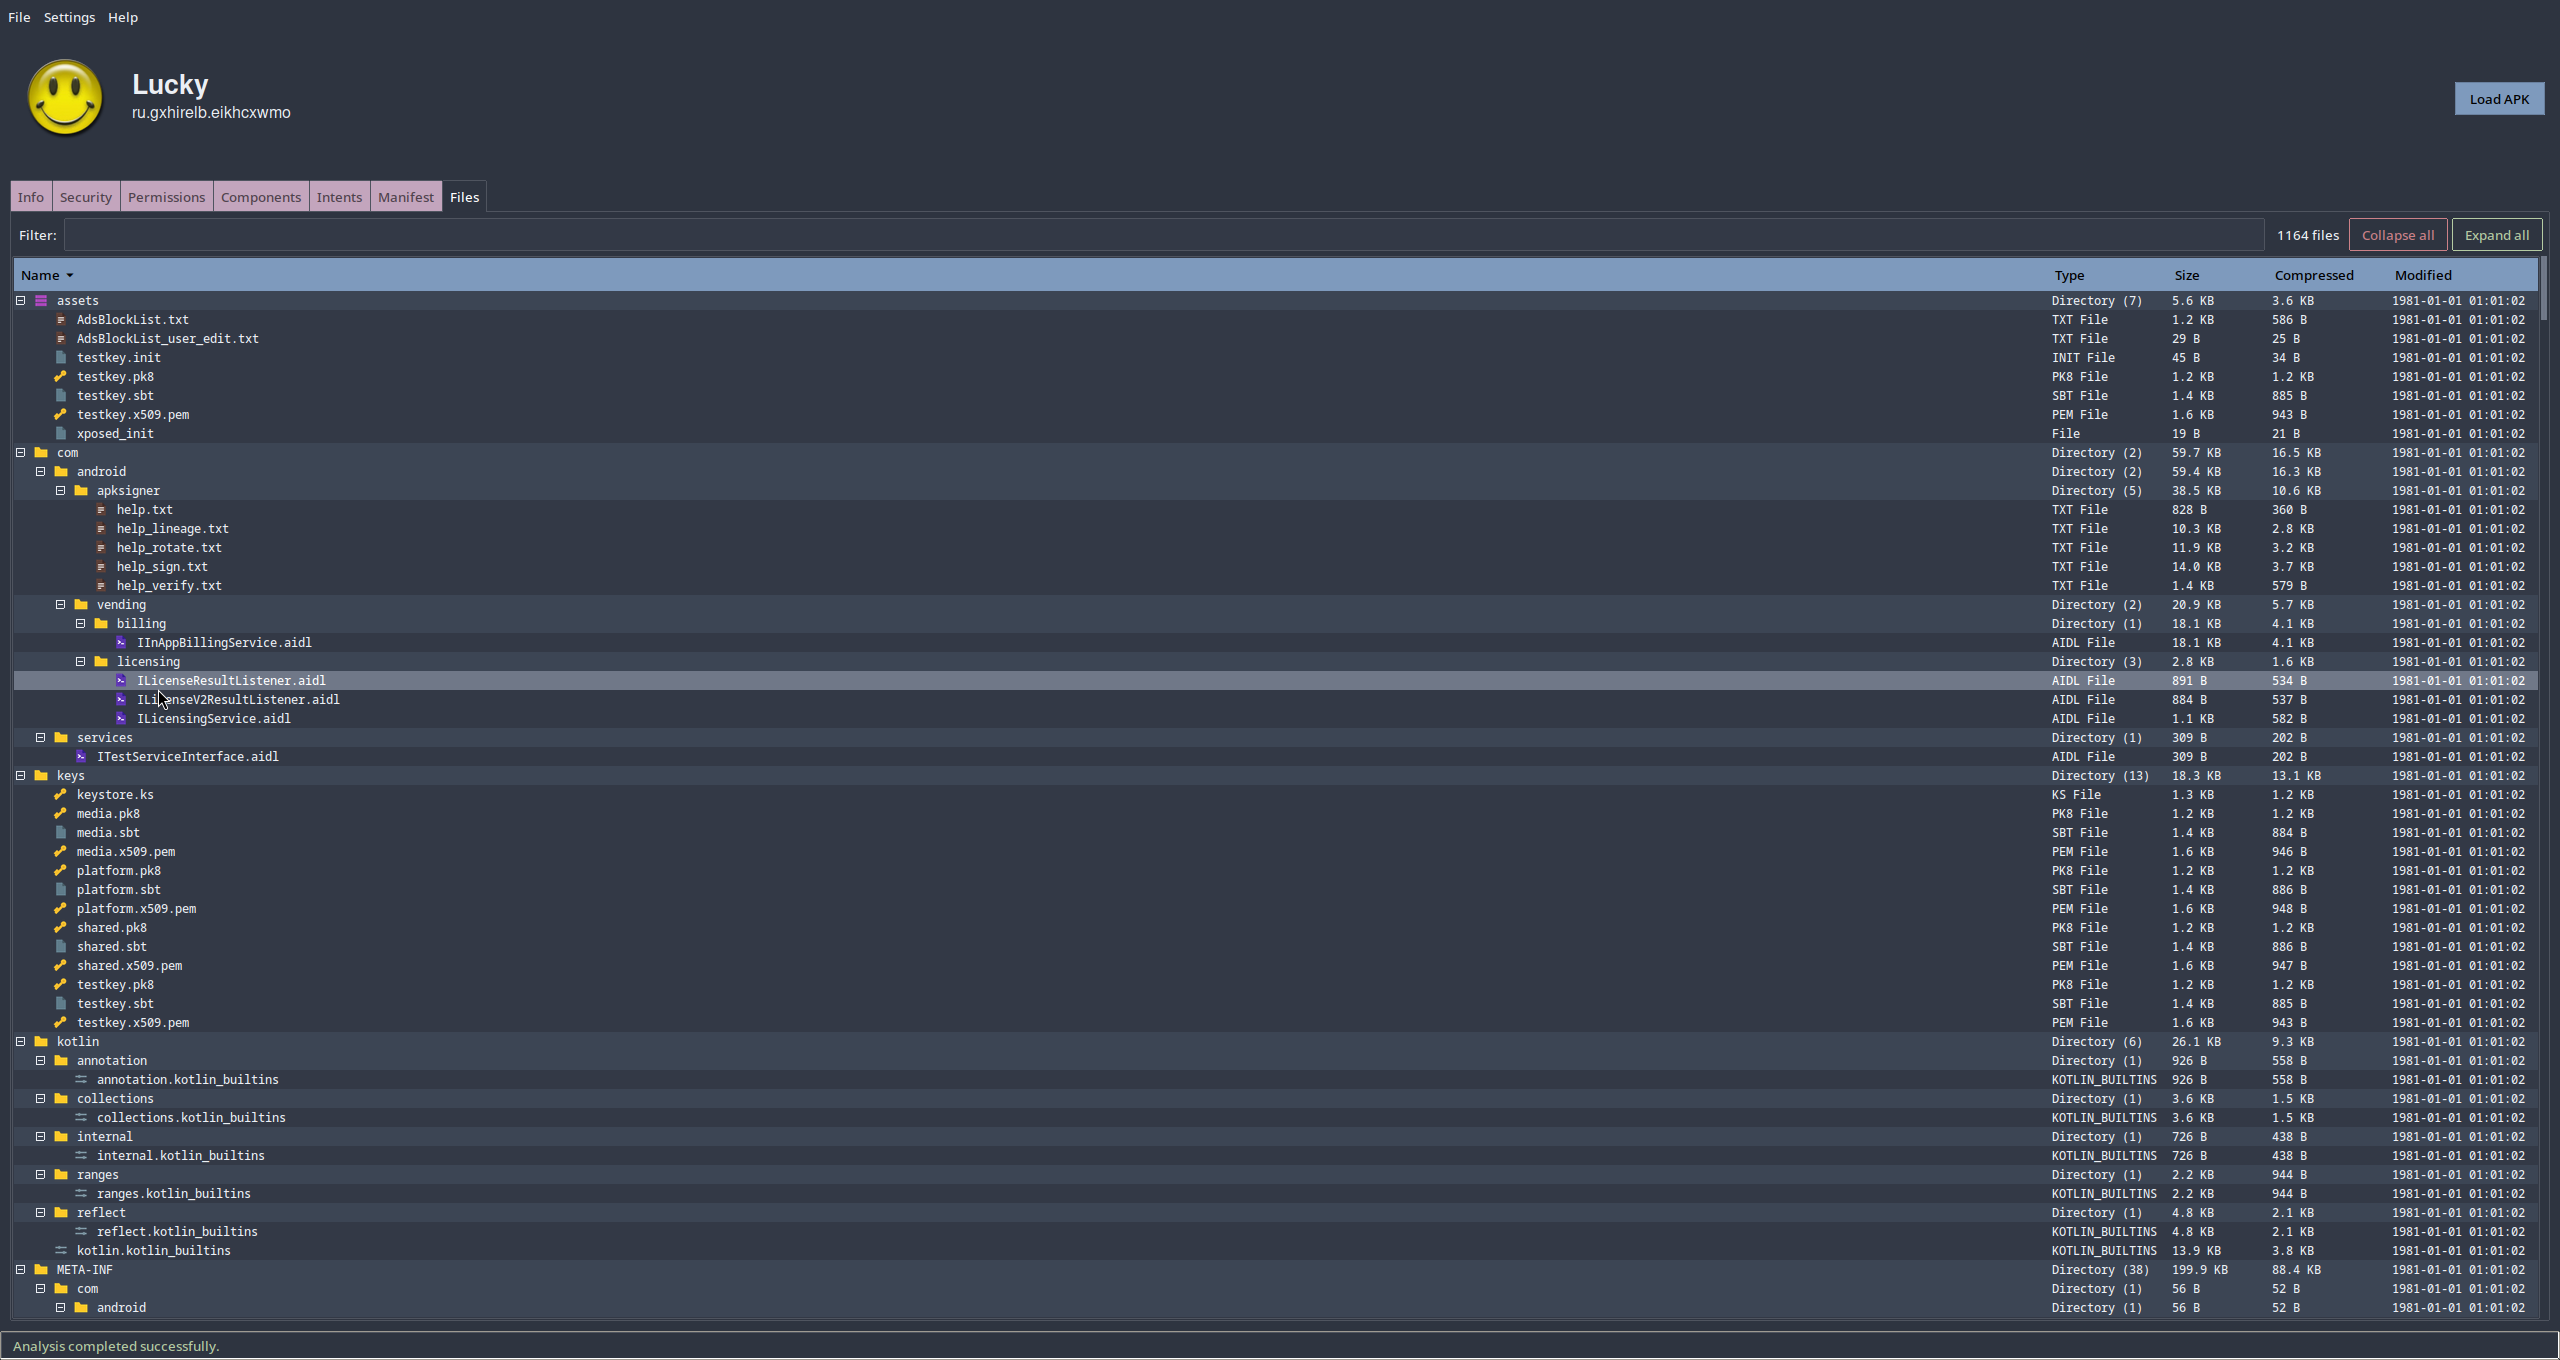
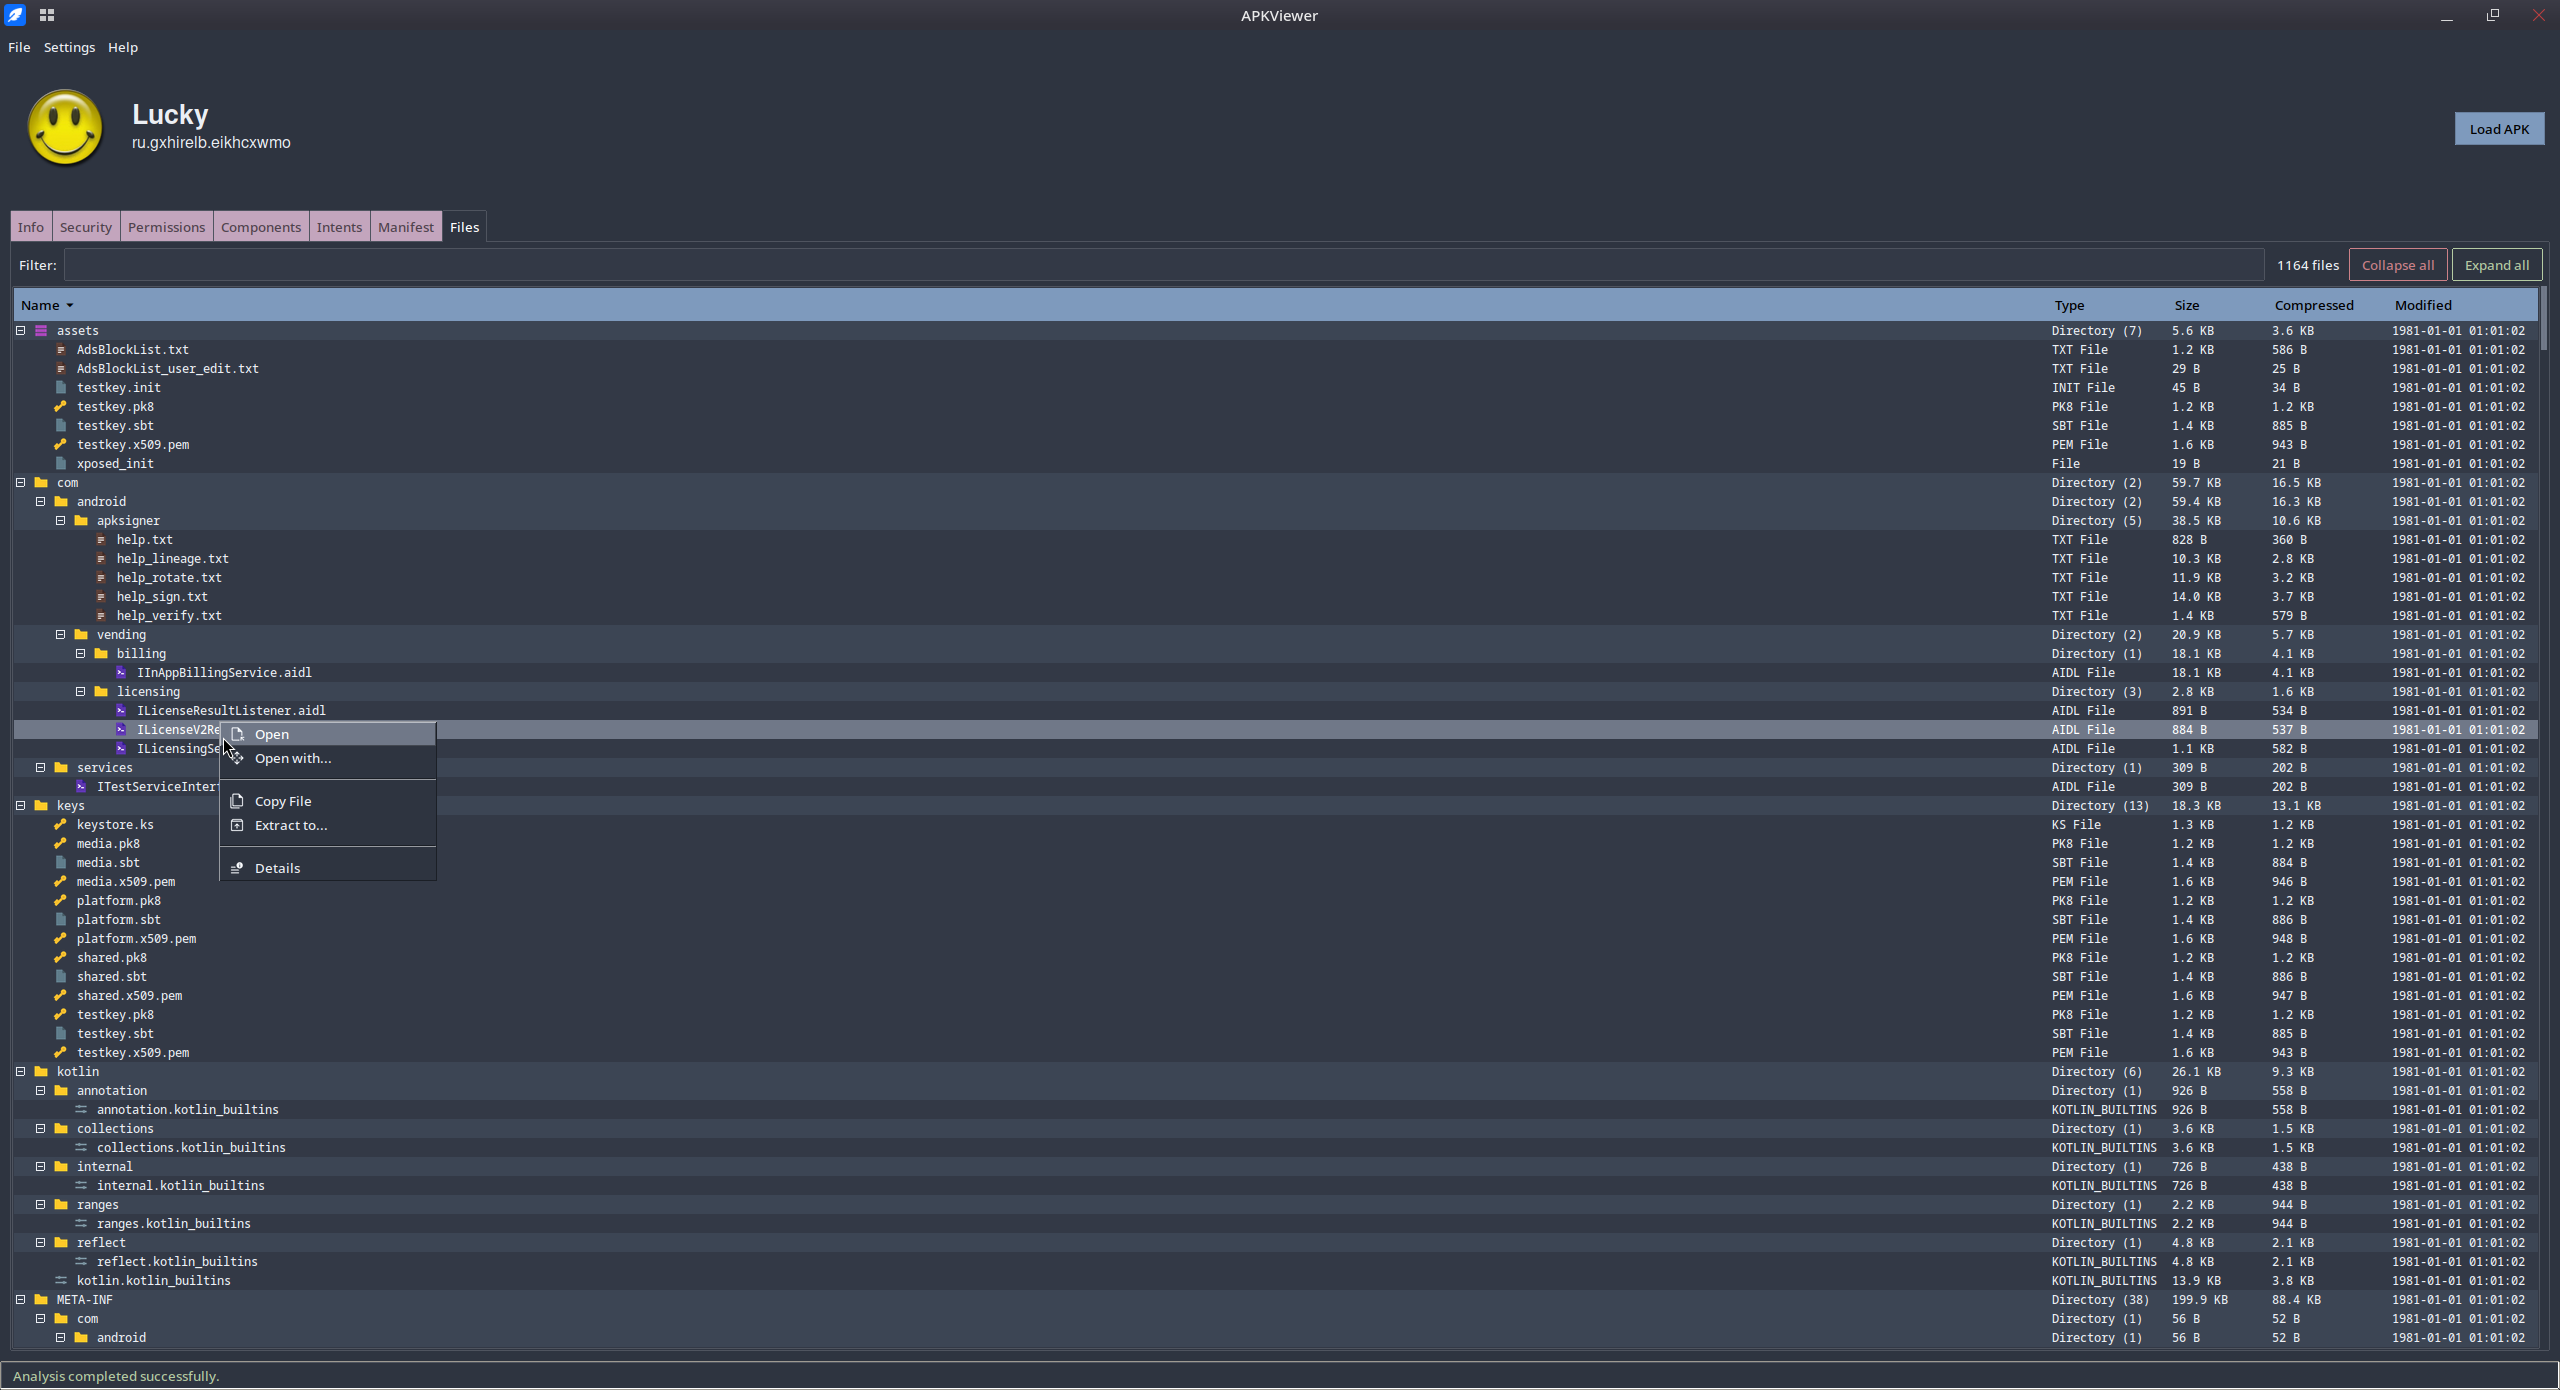
feat: best format for tooltips in components' chips

Changed region(s): [[0.0, 0.0, 1.0, 1.0], [0.9375, 0.0618, 1.0, 0.1235]]

diff --git a/apkviewer/presentation/tabs/security_tab/security_panel.py b/apkviewer/presentation/tabs/security_tab/security_panel.py
@@ -149,5 +149,5 @@ class SecurityPanel(FormPanel):
         if until is None:
             return None
         if certificate.is_expired(now):
-            return ChipSpec("expired", "danger", f"This certificate expired on {until:%Y-%m-%d}.")
-        return ChipSpec(f"valid until {until.year}", "success", f"This certificate is valid until {until:%Y-%m-%d}.")
+            return ChipSpec("expired", "danger", f"This certificate expired on {until:%Y-%m-%d %H:%M:%S}.")
+        return ChipSpec(f"valid until {until.year}", "success", f"This certificate is valid until {until:%Y-%m-%d %H:%M:%S}.")
